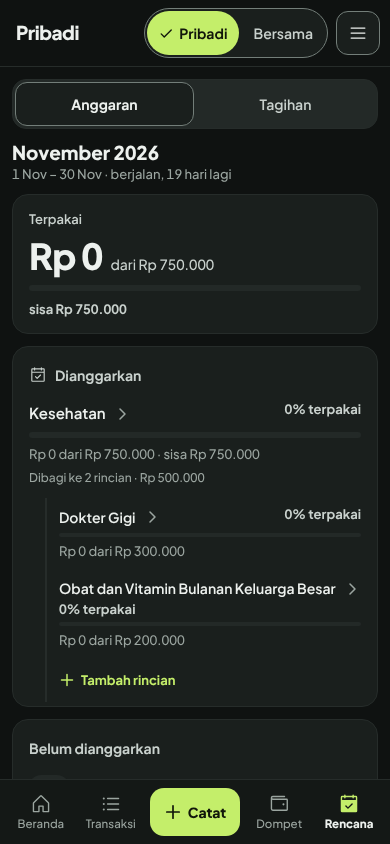
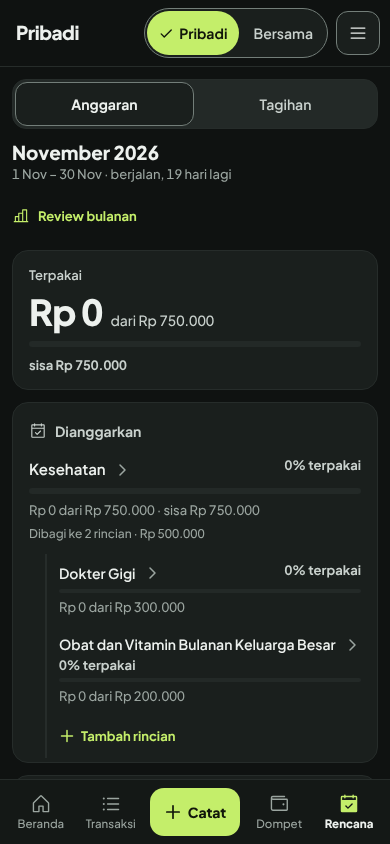
docs(s10): penutup S10 (handoff, BSD §16, IPD, keputusan agen, critique) dan perbaikan review akhir
- handoff s10.md, BSD §16 Catatan S10, IPD status, m0a-keputusan K1-K7, CLAUDE.md, critique + Delivery Gate
- ekspor: tolak respons redirect/bukan text/csv (sesi habis) dengan toast; Review: judul terlihat di HP
- screenshot Review dan Ekspor (docs/design/s10)

Claude-Session: https://claude.ai/code/session_01AG8bFj16Z3n8tZMQsLkXpi

diff --git a/apps/web/src/app/[ruang]/_real/ekspor-client.test.tsx b/apps/web/src/app/[ruang]/_real/ekspor-client.test.tsx
@@ -43,7 +43,9 @@ function setup() {
 
 describe('ExportButton (S10-EX1)', () => {
   it('berhasil: fetch, unduh dengan nama berkas, toast tanpa nominal', async () => {
-    fetchMock.mockResolvedValue(new Response('x', { status: 200 }));
+    fetchMock.mockResolvedValue(
+      new Response('x', { status: 200, headers: { 'content-type': 'text/csv; charset=utf-8' } }),
+    );
     const user = userEvent.setup();
     const btn = setup();
     expect(btn).toHaveAccessibleDescription('Semua transaksi');
@@ -68,6 +70,24 @@ describe('ExportButton (S10-EX1)', () => {
     await user.click(setup());
     await waitFor(() => {
       expect(toastSpy).toHaveBeenCalledWith({ message, tone: 'info' });
+    });
+    expect(clicked).toHaveLength(0);
+  });
+
+  it('sesi habis (redirect ke halaman masuk, HTML): tidak diunduh, toast sesi berakhir', async () => {
+    const html = new Response('<html></html>', {
+      status: 200,
+      headers: { 'content-type': 'text/html' },
+    });
+    Object.defineProperty(html, 'redirected', { value: true });
+    fetchMock.mockResolvedValue(html);
+    const user = userEvent.setup();
+    await user.click(setup());
+    await waitFor(() => {
+      expect(toastSpy).toHaveBeenCalledWith({
+        message: 'Sesi berakhir. Masuk lagi, lalu coba ekspor sekali lagi.',
+        tone: 'info',
+      });
     });
     expect(clicked).toHaveLength(0);
   });

diff --git a/apps/web/tests/e2e-ledger/screens-s10-rencana.spec.ts b/apps/web/tests/e2e-ledger/screens-s10-rencana.spec.ts
@@ -137,3 +137,19 @@ test('S10-SB2 sheet rincian (baru, ubah) dan sheet induk dengan rincian', async 
     await openUntil(() => row(p, 'Kesehatan').first(), sheet, amountOf(sheet));
   });
 });
+
+test('S10-RV1 Review bulanan (periode berjalan: Rencana vs kenyataan, kartu Siapkan)', async ({
+  browser,
+  ownerState,
+}) => {
+  await shoot(browser, ownerState, 'rv1-review', '/pribadi/rencana/review', async (p) => {
+    await expect(main(p).getByRole('region', { name: 'Rencana vs kenyataan' })).toBeVisible();
+    await expect(main(p).getByRole('region', { name: /^Siapkan / })).toBeVisible();
+  });
+});
+
+test('S10-EX1 Laporan dengan tombol Ekspor CSV', async ({ browser, ownerState }) => {
+  await shoot(browser, ownerState, 'ex1-laporan-ekspor', '/pribadi/laporan', async (p) => {
+    await expect(main(p).getByRole('link', { name: 'Ekspor CSV' })).toBeVisible();
+  });
+});

diff --git a/apps/web/src/app/[ruang]/_real/ekspor-client.tsx b/apps/web/src/app/[ruang]/_real/ekspor-client.tsx
@@ -46,6 +46,11 @@ export function ExportButton({
         });
         return;
       }
+      // Sesi habis: fetch mengikuti redirect ke halaman masuk (200 HTML); jangan diunduh sebagai .csv.
+      if (res.redirected || !(res.headers.get('content-type') ?? '').startsWith('text/csv')) {
+        toast({ message: EKSPOR_COPY.errSession, tone: 'info' });
+        return;
+      }
       const blob = await res.blob();
       const url = URL.createObjectURL(blob);
       const a = document.createElement('a');

diff --git a/apps/web/src/app/[ruang]/_real/review.tsx b/apps/web/src/app/[ruang]/_real/review.tsx
@@ -57,6 +57,10 @@ export function ReviewReal({
     <>
       <PageHeader title={REVIEW_COPY.title(title)} />
       <div className={WRAP}>
+        {/* HP/tablet: judul terlihat (pola Laporan); `h1` aslinya sr-only dari PageHeader, jadi ini dekoratif. */}
+        <p aria-hidden="true" className="text-title font-extrabold text-text laptop:hidden">
+          {REVIEW_COPY.link}
+        </p>
         <PeriodPicker
           ruang={ruang}
           period={period}

diff --git a/apps/web/src/app/[ruang]/_real/ekspor-copy.ts b/apps/web/src/app/[ruang]/_real/ekspor-copy.ts
@@ -10,5 +10,6 @@ export const EKSPOR_COPY = {
   done: (title: string, ruang: Ruang) => `Ekspor ${title} · ${RUANG_NAME[ruang]} selesai`,
   errTooLarge: 'Terlalu banyak transaksi untuk satu ekspor. Pilih periode yang lebih pendek.',
   errRate: 'Terlalu sering mengunduh. Coba lagi nanti.',
+  errSession: 'Sesi berakhir. Masuk lagi, lalu coba ekspor sekali lagi.',
   errGeneric: 'Belum berhasil. Sambungan ke server terputus. Coba lagi.',
 } as const;

diff --git a/CLAUDE.md b/CLAUDE.md
@@ -33,6 +33,7 @@ Aplikasi keuangan pribadi + bersama untuk Novanda dan Farida. Repo private, juga
 - **S8 (Bersama penuh: feed Aktivitas + Kontribusi di Beranda Bersama, halaman `/bersama/aktivitas`, onboarding Farida, biaya kaki keluar Bersama, registry ID tes) selesai dan di-merge ke `main` (PR #20, 2026-11-05; merge = deploy + migrasi 0114–0115 di produksi):** migrasi 0114–0115 (`api.shared_activity`, `api.member_contributions`; fungsi baca, tanpa tabel baru), salinan tanpa "rumah tangga" (R4). Angka: pgTAP 1071 (CI `db`), unit web 2022, `test:int` 172, e2e prototipe 296, e2e:bersama 22, e2e:ledger 38, e2e:auth 22; budget JS Beranda prototipe 161,7 / nyata 157,5 kB (batas 162, headroom 0,3). Catatan teknis: BSD §16 "Catatan S8"; ruling dan temuan: `docs/superpowers/handoff/s8-ledger.md`; desain + critique: `docs/design/s8-bingkai.md`; serah-terima + langkah pemilik: `docs/superpowers/handoff/s8.md`.
 - **S9 (anggaran, tagihan dasar, aman dipakai, Laporan) selesai** di branch `claude/bold-pasteur-535stf`, PR #24 (Task 1–13, 15, 17; Task 14/16 dipindah ke S10, pemilik 2026-11-07); review akhir SIAP MERGE, review keamanan bersih. **Merge = deploy + migrasi 0116–0121 di produksi** (periode gajian `payday_rule = 25` + `app.holidays`, `bills`/`bill_occurrences`/`budgets`, API tagihan + job `materialize_bills` 00:05 WIB, API anggaran + `copy_budgets`, aman dipakai lengkap + `spend_pace`, fungsi Laporan). Angka: pgTAP 1726, unit web 2272, worker unit 35 + int 10, `test:int` 192, e2e prototipe 308, `e2e:auth` 22, `e2e:ledger` 95 (+25 screenshot dilewati), `e2e:bersama` 33, `deploy-test.sh` 25, registry 33 aktif dari 92; budget JS prototipe Beranda 161,6 / nyata 157,5, Rencana 154,4 / 150,3, Laporan 155,3 / 151,2 kB (batas 162). CI `image`: pengecualian Trivy zlib1g sampai 2026-11-21. Catatan teknis: BSD §16 "Catatan S9"; desain + critique: `docs/design/s9-bingkai.md`; serah-terima + langkah pemilik: `docs/superpowers/handoff/s9.md`.
 - **Catat lewat WhatsApp (OpenWA) selesai, di-merge ke `main` (PR #27) dan live di VM DB sejak 2026-11-10 (merge = deploy + migrasi 0123 di produksi)** (fitur tidak menyala sendiri: tanpa `WA_*`/`OPENWA_*` di `web.env` route webhook 404 dan menu tampil mati; `openwa` + `wa-proxy` hanya naik bila `env/openwa.env` ada). Kirim `25rb makan siang` ke nomor bot (dompet dipilih per pesan dengan `@nama`, mis. `makan siang padang 23rb @cimb`: cocok nama dompet aktif ruang tujuan tanpa beda huruf, awalan unik, tidak ketemu/ambigu ditolak dengan daftar, `@kantor` eksplisit boleh hanya di Pribadi, bawaan tetap tidak pernah kantor; tanpa migrasi, PR #29, fase 2 perintah `dompet cimb` ditunda; spec 4.4, BSD §16 "Catatan WA"; tanggal bebas per pesan: `kemarin`/`kmrn`, `tgl 9`, `tgl 9/11`, `tgl 9 nov`, `tgl 9/11/2025`, ISO, masa depan dan lebih dari 366 hari ke belakang ditolak, tanpa migrasi, PR #30 + perbaikan hasil review independen, spec 4.1), dibaca aturan tetap (tanpa AI, satuan salah/slang/konfusabel gagal tertutup), masuk ledger lewat `createEntry`, dibalas satu baris, `batal` dalam 10 menit. Migrasi 0123 (`wa_links`, `wa_link_codes`, `wa_messages`, `api.wa_*`, event audit `wa_linked`/`wa_unlinked`; nomor diputus saat reset kata sandi dan masuk dengan kode pemulihan), route `/api/wa/webhook` (HMAC atas byte mentah, body streaming 64 KiB, di luar proxy Next, id pesan di-hash, batas laju, batas `hubung`), halaman `/[ruang]/whatsapp`. Topologi VM: `openwa` `0.27.1@sha256` (network `wa` + `wa_egress`) tidak berbagi network dengan web; sidecar `wa-proxy` (Caddy, allowlist L7 dua arah, header identitas dibuang, log tanpa header) di `wa` dan `wa_web`; `wa`/`wa_web` internal dengan gateway `isolated`, ketiga network tanpa IPv6; `firewall.sh` DROP egress `wa_egress` ke IMDS/VCN/privat dan DROP `INPUT` dari ketiga subnet; gw 404 untuk `/api/wa/*`; Trivy image OpenWA mingguan + PR (`openwa-image.yml`). Angka: pgTAP 1865, unit web 2638 (semua lulus sesudah merge `main`; kegagalan lama `rencana.test.tsx` diperbaiki PR #28), `test:int` 236, worker unit 35 + int 10, e2e prototipe 308, `e2e:auth` 22, `e2e:ledger` 101 (+25 dilewati), `e2e:bersama` 33, `deploy-test.sh` 33, `firewall-test.sh` 10, `wa-proxy-test.sh` 19; budget JS Beranda nyata 157,5, `/pribadi/whatsapp` 148,3 kB (batas 162). **Langkah pemilik dan keputusan terbuka** (SIM khusus, rahasia di VM, pairing, webhook, pemeriksaan pemisahan/gateway/IMDS/log di VM, terima risiko webhook palsu sah dari `openwa` disusupi, `WA_MAX_AMOUNT`/`WA_RATE_PER_MIN`, hasil Trivy pertama, nomor bot diblokir): `docs/ops/runbook-wa.md` dan `docs/superpowers/handoff/wa.md` (juga "Dibawa ke S10"). Pengecualian Trivy untuk CVE Chromium/apt `0.27.1` kedaluwarsa 2026-11-21; bump ke `0.29.1` sesudah 2026-11-14 18:52 WIB (`0.30.0` ada, layak sesudah 2026-11-17). Catatan teknis: BSD §16 "Catatan WA"; spec `docs/superpowers/specs/2026-11-09-catat-wa-openwa-design.md` (bagian 12).
+- **S10 (anggaran subkategori, Review bulanan, ekspor CSV, retensi WA) selesai** di branch `ccr-779b3416-vsu3pa`, belum PR (2026-11-12); **merge = deploy + migrasi 0124–0128 di produksi**: `0124` utang WA, `0125`–`0126` anggaran rincian (induk beranggaran, Σ rincian ≤ induk, tidak wajib; `budget_overview`, `copy_budgets` dengan persen, DQ14), `0127` `api.export_entries` (satu baris per kaki entri, Σ = Laporan), `0128` `purge_wa_messages` (14 hari, 01:27 WIB); webhook WA menolak pesan > 7 hari. Review bulanan `/[ruang]/rencana/review`, ekspor `GET /[ruang]/laporan/ekspor` (10/jam/user). Angka: pgTAP 1982, unit web 2831, `test:int` 273, worker unit 36 + int 10, e2e prototipe 308, `e2e:ledger` 98 (+1 gagal di sandbox lokal, CI `main` hijau: `tagihan › Urungkan bayar`), `e2e:bersama` 34. **Langkah pemilik dan keputusan terbuka** (metrik WA sebelum ~2026-11-24, log `no_timestamp`, pemisah CSV Excel id-ID, masa pakai 7 hari gerbang M2, tanggal OpenWA/Trivy): `docs/superpowers/handoff/s10.md`. Catatan teknis: BSD §16 "Catatan S10"; desain + critique: `docs/design/s10-bingkai.md`; keputusan agen: `docs/m0a-keputusan.md`.
 - **Belum live untuk pengguna:** pemilik perlu mengikuti `docs/ops/auth.md` (Resend SPF/DKIM, `web.env`, `owner_email`, bootstrap akun). Sesudah bootstrap, halaman ruang memakai ledger nyata.
 
 ## Tertunda
@@ -42,7 +43,7 @@ Aplikasi keuangan pribadi + bersama untuk Novanda dan Farida. Repo private, juga
 3. **Enam dokumen produk** di `docs/product/` (PRD, TRD, AFD, DBD, BSD, IPD) selesai dan sudah lewat satu putaran review tim (`docs/product/review/`); 18 keputusan pemilik disetujui (`review/keputusan-pemilik.md`). BSD **disetujui pemilik 2026-10-31** (§15 terjawab, periode gajian §8.2a) dan `bsd-check` lulus di PG 16 dan PG 17.11 (`docs/product/bsd-check/`); pindah ke pgTAP di CI M0b. Pertanyaan terbuka sisa: TRD §7.
 4. **Peran designer:** tambah kursi "design reviewer" di setiap task UI, dan design critique pada pratinjau Panel Malam.
 5. Budget JS tetap 162 kB rute (target 150 kB di M2 dibatalkan pemilik); Panel Malam memakai 160,9 kB.
-6. **Berikutnya:** merge PR #24 sesudah CI hijau, lalu S10 dari `docs/superpowers/handoff/s9.md` "Dibawa ke S10" (worker lanjutan, CSV, review bulanan, Task 14/16 S9: utang S7/S8 dan Web Vitals). Aturan M1: setiap page `[ruang]` memanggil `requireDataUser()` dan setiap kueri data lewat `withUser`.
+6. **Berikutnya:** PR S10 (sesudah CI hijau dan langkah pemilik di `handoff/s10.md`), gerbang M2 (masa pakai 7 hari dua akun), lalu S11 (IPD §6). Aturan M1: setiap page `[ruang]` memanggil `requireDataUser()` dan setiap kueri data lewat `withUser`.
 7. **Ditunda kecil:** daftar event audit reserved wajib diperbarui saat event sistem baru ditambah (tes katalog sudah menjaga); tes `99_konkurensi` bisa meninggalkan `app.settings env='test'` di DB CI bila gagal di tengah; dbmate tanpa `--strict` (0009/0010 boleh terpasang setelah 0100+).
 8. **Ditunda S6 (sisa kecil):** temuan critique S6: galat S6-C2 mode keyboard terpotong ellipsis, nama dompet panjang memakai empat baris di daftar Dompet, keterangan riwayat dompet terpotong saat nominal panjang. (Seed demo sudah keluar dari JS mode nyata di S7 Task 9; initializer `useCatat` diperbaiki Task 14.)
 9. **Ditunda S7:** keputusan pemilik 2026-11-04 sudah dijalankan: `dompetku-psql` dibuat (`infra/db-vm/bin/`, `docs/ops/akses-db-manual.md`; alert anomali "koneksi admin tanpa event" ditunda sampai log Postgres dikirim ke luar VM); SBOM/Trivy `worker.mjs` = opsi B (tetap dibundel, osv-scanner PR + mingguan `osv-mingguan.yml`, `docs/ops/ci-keamanan.md`). Sisa: DQ07 tidak memicu alert (R20); password `worker.env` salah baru tertangkap sesudah web terpasang dan ikut rollback. Utang: chip saran Catat bergeser +24 px saat dipilih; kontrol Talangan di sheet Ubah belum ada (`Tidak diganti` tidak bisa dibalik dari UI); nama dompet panjang terpotong di sheet reimburse dan daftar Dompet; arah ambil Bersama→Pribadi hanya dijaga `s7.int`; biaya kaki keluar Bersama tidak ditampilkan; worker: `unhandledRejection` hanya log; urutan cek `create_reimbursement` (M5, aman di bawah RLS FORCE); flaky C9 akar tidak terbukti (tes dikuatkan); Delivery Gate antislop dijalankan sebagai daftar periksa (ulangi bila skill tersedia).

diff --git a/docs/superpowers/handoff/s10.md b/docs/superpowers/handoff/s10.md
@@ -1,0 +1,59 @@
+# Serah-terima S10 (M2): anggaran subkategori, review bulanan, ekspor CSV, worker lanjutan
+
+Dokumen ini untuk sesi agen berikutnya dan untuk pemilik. Baca sampai habis sebelum mengerjakan apa pun.
+
+- Plan (K1–K7, ditulis agen; default dipakai karena pemilik menjawab "gas"): `docs/superpowers/plans/2026-11-11-dompetku-v2-s10-anggaran-sub-review-csv.md`. Catatan "Selesai ..." di bawah tiap task memuat ruling dan penyimpangan.
+- Desain: `docs/design/s10-bingkai.md` (bingkai, penyimpangan per task, critique + Delivery Gate); screenshot `docs/design/s10/` (`SCREENS=1`, `screens-s10-rencana.spec.ts`).
+- Catatan teknis: BSD §16 "Catatan S10" dan §13 butir 27.
+- Branch kerja: `ccr-779b3416-vsu3pa` (ditetapkan sesi; bukan `claude/s10-*`). **Belum ada PR.** **Merge = rilis + deploy otomatis + migrasi 0124–0128 di produksi** (maju-saja).
+
+## Status (2026-11-12)
+
+| Task | Isi | Catatan |
+| --- | --- | --- |
+| Pra | `0124` utang WA: trigger `wa_messages_clock`, `wa_finish_message` memeriksa pembuat, batas `hubung`, 10 kode/jam | `docs/superpowers/handoff/wa.md` |
+| 1 | bingkai desain | `docs/design/s10-bingkai.md` |
+| 2 | `0125` anggaran subkategori: skema, trigger pohon (`parent_budget_required`, `sub_exceeds_parent`, `sub_not_wajib`, cascade hapus induk) | kolom `category_is_root` dibuang |
+| 3 | `0126` `budget_overview` (+rincian, `sub_allocated`, `max_amount`), `copy_budgets(…, p_adjust_pct)`, DQ14 | induk dibulatkan ke atas, rincian ke bawah |
+| 4–5 | server/action + UI Rencana (daftar bersarang, `Tambah rincian`, sheet rincian) | design review terpisah |
+| 6 | Review bulanan `/[ruang]/rencana/review` (angka = Laporan), kartu `Siapkan {Bulan}` +persen | nyata saja |
+| 7–8 | `0127` `api.export_entries` + `csv.ts` + route `GET /[ruang]/laporan/ekspor` + tombol Laporan | per KAKI entri; 10/jam/user |
+| 9 | `0128` `jobs.purge_wa_messages` (14 hari, 01:27 WIB); worker keluar pada `unhandledRejection`; WA menolak pesan > 7 hari | lihat "Replay WA" |
+| 10 | dokumen, critique, review akhir | review akhir Opus: tanpa BLOCKER/TINGGI |
+
+Angka akhir (lokal, 2026-11-12): pgTAP 1982 (30 berkas; rollback penuh + up ulang lulus), unit web 2831, worker unit 36 + int 10, `test:int` web 273, e2e prototipe 308, `e2e:ledger` 98 lulus + 1 gagal lama (lihat "Utang"), `e2e:bersama` 34, budget JS rute nyata ≤ 162 kB (e2e budget lulus di Beranda, Transaksi, Rencana, Review, Laporan). Setiap task DB/uang punya review independen model Opus; review akhir lintas task juga.
+
+## Langkah pemilik (sesudah PR di-merge)
+
+1. Merge hanya bila CI hijau di head PR (job `db` dengan rollback/up, `auth`/int, e2e).
+2. Deploy memasang migrasi 0124–0128; tidak ada rahasia atau check Healthchecks baru. Sehari sesudahnya: `jobs.job_runs` untuk `purge_wa_messages` berstatus `ok` (`docs/ops/runbook-s7-worker.md`, "Pasang job S10") dan `dompetku-dq` hijau (DQ14 = 0).
+3. **Metrik WA:** spec WA memerlukan "80% dalam 14 hari" dari `wa_messages`. Job purge mulai menghapus baris sekitar **2026-11-24/25** (WA live 2026-11-10). Ambil angkanya **sebelum** itu, atau tunda merge sampai metrik diambil, atau mintalah agen menahan job (`purge_wa_messages` dinonaktifkan di `jobs.ts`).
+4. **Replay WA:** sesudah pairing, pastikan log web TIDAK memuat `[wa] no_timestamp` (runbook-wa langkah 8). Bila ada, `data.timestamp` tidak ada di payload OpenWA dan batas umur 7 hari mati (fail-open): pesan yang dikirim ulang sesudah hari ke-30 bisa tercatat ganda. Beri tahu agen.
+5. **Masa pakai 7 hari** dua akun (gerbang M2, IPD §5): catat, Review bulanan, Ekspor.
+6. **CSV:** pemisah koma. Excel locale Indonesia membuka satu kolom (Sheets dan Excel "Dari teks/CSV" normal). Bila Anda memakai Excel id-ID, minta agen mengganti ke `;` (perubahan kecil di `csv.ts`).
+7. Tanggal yang ikut: bump OpenWA `0.29.1` sesudah 2026-11-14 18:52 WIB (`0.30.0` sesudah 2026-11-17); pengecualian Trivy `zlib1g` dan OpenWA 0.27.1 kedaluwarsa 2026-11-21 (`docs/ops/ci-keamanan.md`).
+
+## Replay WA (ringkas)
+
+Baris dedupe `wa_messages` hanya hidup 14 hari. Perlindungan catatan ganda: (1) webhook mengabaikan pesan yang `data.timestamp`-nya > 7 hari (`MAX_MESSAGE_AGE_SECONDS`, `handle.ts`); (2) pesan 7–14 hari yang barisnya sudah dipurge ditahan idempotensi ledger 30 hari (`client_id` turunan id pesan). Tes: `handle.int` (pesan 8 hari, 6 hari, tanpa timestamp, replay sesudah purge).
+
+## Utang dan keputusan terbuka
+
+- **`e2e:ledger` `tagihan.spec › Urungkan bayar` gagal di sandbox lokal** (timeout 30 s; gagal juga pada kode tanpa perubahan S10), tetapi CI `main` (run #116, 2026-11-11) hijau, jadi kemungkinan lingkungan lokal yang lambat. Tebakan "tunggu dialog menutup" tidak memperbaikinya (dibatalkan). Bila CI di PR merah di tes ini, selidiki: pada kegagalan sheet Bayar masih terbuka dengan baris belum lunas.
+- Salin anggaran dengan persen negatif bisa menaikkan induk kecil (Rp500 −10% → Rp1.000, karena pembulatan ke atas ke Rp1.000); rincian < Rp1.000 dilewati (`skipped_conflict`).
+- Kuota ekspor 10/jam/user di memori satu proses (reset saat restart), terpakai juga oleh permintaan yang gagal.
+- Jendela deploy: web lama sesaat memanggil `budget_overview` dengan daftar alias lama (urutan baris bisa kacau beberapa detik, data produksi belum punya rincian); tanpa data rusak.
+- Critique S10 sisa: tangga `near/full/over` pada rincian dan nominal `Rp 12.345.678.900` di baris rincian belum dipotret; Review dan tombol Ekspor sudah dipotret 320/390/1280 terang dan gelap.
+- Dari plan/S9/WA yang tidak masuk S10: DQ07 tanpa alert (R20), T15 di registry (M5), kontrol Talangan di sheet Ubah, chip saran Catat bergeser, nama dompet panjang terpotong, kontrol tanggal tagihan, item Laporan di sidebar laptop, screenshot Kontribusi dua anggota, kategori `Kontribusi Farida`, utang WA lain (`createPools` dua pool, anti-tebak global, down migrasi 0123, indeks `wa_default_account`, dan seterusnya: `docs/superpowers/handoff/wa.md`).
+
+## Cara melanjutkan
+
+1. Lingkungan: `docs/superpowers/handoff/s9-konteks-subagent.md` dan "Cara melanjutkan" di `docs/superpowers/handoff/s7.md` (pnpm install, pgtap, dbmate, `db-reset-lokal.sh`; `test:int` meninggalkan pengguna di DB lokal: reset sebelum pgTAP/worker int).
+2. Gerbang: `pnpm lint && pnpm typecheck && pnpm test && pnpm format:check && pnpm test:registry`, `pnpm build`, `PW_CHROMIUM_PATH=/opt/pw-browsers/chromium pnpm e2e`, `test:int`, `e2e:auth`, `e2e:ledger`, `e2e:bersama`, `pg_prove` seluruh suite + rollback/up (lalu `env = 'prod'`), worker unit + int.
+3. Berikutnya: gerbang M2 (masa pakai 7 hari), lalu S11 (IPD §6: utang/piutang, cicilan) setelah pemilik menyetujui M2. Tulis plan dari `main` terbaru.
+
+## Pesan pembuka untuk sesi baru
+
+```
+Lanjutkan dari docs/superpowers/handoff/s10.md. Pertama cek status PR S10 (CI, merge) dan apakah pemilik sudah menjalankan langkah pasca-merge (job purge_wa_messages, DQ14, log no_timestamp, metrik WA). Bila M2 sudah disetujui pemilik, tulis plan S11 (IPD §6) dari main terbaru di branch claude/s11-<topik>, lalu eksekusi dengan subagent-driven-development.
+```

diff --git a/docs/design/s10-bingkai.md b/docs/design/s10-bingkai.md
@@ -133,28 +133,26 @@ Tiap task UI (5, 6, 8) menugaskan satu reviewer terpisah memeriksa: tangga statu
 
 ## Design critique dan Delivery Gate
 
-Diisi di Task 10 sesudah UI selesai (daftar periksa antislop dijalankan manual bila skill tidak tersedia, seperti S7 sampai S9).
+Antislop mode DURING; Delivery Gate dijalankan sebagai daftar periksa manual (skill tidak tersedia, seperti S7 sampai S9). Screenshot: `docs/design/s10/` (320/390/1280, terang dan gelap, `SCREENS=1`): `sb1-daftar-rincian`, `sb2-sheet-rincian-{baru,ubah}`, `sb2-sheet-induk`, `rv1-review`, `ex1-laporan-ekspor`. Design review terpisah (subagent) untuk Task 5; Task 6 dan 8 dikritik penulis dari screenshot.
 
-## Penyimpangan Task 5 dari bingkai (diputuskan agen, 2026-11-11; hasil design review terpisah)
+### Daftar periksa
 
-1. **Kotak Induk** menampilkan `Anggaran Rp …` (bukan nominal saja) dan label `Induk` terhubung ke kotaknya (`aria-labelledby`).
-2. **`Maksimal Rp …` baris sendiri** di bawah hint periode (bukan di ujung hint yang sama), supaya aturan paling menentukan tidak terpencil di 320 px; bila `maxAmount = 0` teksnya `Anggaran induk sudah habis dibagi ke rincian lain.` (kasus tepi yang tidak dibahas bingkai; `Tambah rincian` tetap tampil selama ada kandidat).
-3. **`Tambah rincian`** mendapat `hover-pointer:bg-hover` (sama dengan baris di atasnya). Jarak ≥ 8 antar baris induk, rincian, dan `Tambah rincian` memakai pengecualian yang sama dengan S9 (pemisah = padding baris, target ≥ 44: rincian 64, tombol 44).
-4. **Nama rincian sangat panjang**: caret ke tepi kanan saat status turun ke baris kedua (kosmetik, tidak ada yang terpotong).
-5. Belum dipotret: tangga `near/full/over` pada rincian dan `Rp 12.345.678.900` di baris rincian (komponen `Status` dan `Bar` dipakai bersama induk). Tercatat sebagai utang kecil untuk critique Task 10.
+| Butir                                                                                      | Hasil                                                           |
+| ------------------------------------------------------------------------------------------ | --------------------------------------------------------------- |
+| Token dan komponen Panel Malam dipakai ulang (tanpa warna/ikon baru, tanpa bayangan kartu) | lulus                                                           |
+| Status = ikon + teks, tangga sama untuk induk dan rincian                                  | lulus (rincian `near/full/over` belum dipotret)                 |
+| Target sentuh ≥ 44, jarak ≥ 8                                                              | lulus; pengecualian S9 untuk baris yang menempel (target 64/44) |
+| 320 px tanpa gulir horizontal                                                              | lulus (e2e `noHorizontalScroll` di Rencana, Review, Laporan)    |
+| axe tanpa pelanggaran serius, terang dan gelap                                             | lulus (`s9.spec` Review 320/1280, Rencana, Laporan)             |
+| Label in Name, ul berlabel, urutan fokus = urutan DOM                                      | lulus                                                           |
+| Salinan tanpa "rumah tangga", tanpa tanda seru, galat tanpa nominal                        | lulus (galat S10 dites tanpa digit)                             |
+| Budget JS ≤ 162 kB, pulau malas                                                            | lulus (e2e budget Rencana, Review, Laporan)                     |
 
-## Penyimpangan Task 6 dari bingkai (diputuskan agen, 2026-11-12)
+### Temuan
 
-1. **Rincian di "Rencana vs kenyataan" selalu terbuka** (daftar bersarang berlabel, seperti Rencana), bukan `details/summary`: layar baca-saja, tanpa ketukan ekstra.
-2. **Ringkasan = `SummaryCardView` Laporan** (judul `Pengeluaran {Bulan}`, buku besar Pemasukan/Pengeluaran/Selisih, pembanding periode lalu) ditambah `BudgetTotalCard` bila ada anggaran, bukan kartu baru: angkanya komponen yang sama dengan Laporan. Lencana `Sementara` digantikan catatan `Periode belum selesai; angka masih bisa bertambah.` bawaan kartu itu.
-3. **Tautan `Review bulanan`** ada di Rencana > Anggaran (di atas daftar, tampil bila ada anggaran atau periode baru); keadaan kosong Rencana tidak menampilkannya.
-4. **Kolom `Penyesuaian (%)` = `<input inputMode=numeric>` biasa** (persen, bukan uang); galat tanpa nominal.
-5. **Aksi `Salin`** hanya muncul untuk periode yang baru selesai atau berjalan dan punya anggaran (aturan di `loadReview`, bukan UI).
-
-## Penyimpangan Task 8 dari bingkai (diputuskan agen, 2026-11-12)
-
-1. **`Ekspor CSV` = `<a href download>` bergaya tombol sekunder** (bukan `<button>`): unduhan jalan tanpa JS dan sebelum hidrasi; dengan JS klik dicegat untuk keadaan `Menyiapkan…` dan toast galat.
-2. **Periode kosong:** CSV hanya berisi judul kolom; toast sukses yang sama (`Ekspor … selesai`), tanpa toast khusus "belum punya transaksi".
-3. **Batas laju 10 ekspor per jam per user** (di memori satu proses; toast `Terlalu sering mengunduh. Coba lagi nanti.`).
-4. **Pemisah koma**; Excel locale Indonesia membuka CSV koma sebagai satu kolom (Sheets dan Excel "Dari teks/CSV" normal). Utang kecil bila pemilik memakai Excel id-ID.
-5. Belum dipotret untuk design review (tombol + hint di header Laporan, 320/390 terang/gelap): masuk critique Task 10.
+1. **S10-C1 (diperbaiki)** Review di HP tidak punya judul terlihat (`h1` sr-only, pemilih periode hanya menyebut bulan): ditambah judul dekoratif `Review bulanan` seperti Laporan.
+2. **S10-C2 (diperbaiki)** Kotak Induk di sheet rincian hanya nominal tanpa kata `Anggaran`; `Maksimal` terpencil di akhir hint; kasus induk habis dibagi (Task 5 review).
+3. **S10-C3 (diperbaiki)** Ekspor saat sesi habis mengunduh halaman masuk sebagai `.csv`: kini ditolak dengan toast `Sesi berakhir…` (review akhir).
+4. **S10-C4 (catatan)** Nama rincian sangat panjang: caret ke tepi kanan saat status turun ke baris kedua (kosmetik).
+5. **S10-C5 (catatan)** Tangga `near/full/over` pada rincian, `Rp 12.345.678.900` di baris rincian, Review dengan banyak induk, dan keadaan `Menyiapkan…` Ekspor belum dipotret.
+6. **S10-C6 (catatan)** Review memakai dua kartu angka besar berurutan di HP (Ringkasan Laporan lalu Terpakai): padat; layak ditinjau bila pemilik merasa sesak.

diff --git a/docs/superpowers/plans/2026-11-11-dompetku-v2-s10-anggaran-sub-review-csv.md b/docs/superpowers/plans/2026-11-11-dompetku-v2-s10-anggaran-sub-review-csv.md
@@ -25,9 +25,9 @@
 | K2 | Menghapus anggaran induk yang punya sub | Ikut menghapus anggaran sub label itu (UI memberi teks konfirmasi). | Alternatif (tolak) memaksa hapus satu-satu. |
 | K3 | `wajib` pada sub | Ditolak (`DK422 sub_not_wajib`); wajib hanya induk (XOR dengan tagihan tetap di induk). | XOR sudah dinilai di induk; sub wajib membuka celah dobel. |
 | K4 | "Penyesuaian" salin anggaran | Persen bilangan bulat −90..+100 untuk semua baris, dibulatkan ke Rp1.000: anggaran induk ke atas, rincian ke bawah (minimal Rp1.000), supaya `Σ rincian ≤ induk` terjaga setelah pembulatan (hasil review Task 2); induk ditulis lebih dulu; sesudah salin, tiap baris diubah lewat editor yang ada. Sub disalin sesudah induknya dan ikut persen yang sama (jadi `Σ sub ≤ induk` tetap). | Sederhana, uang dihitung di SQL. |
-| K5 | Isi CSV | Satu baris per entri hidup pada periode Laporan (basis gajian/kalender), kolom: tanggal, jenis, kelas laporan, dompet, kategori induk, subkategori, nominal bertanda (integer rupiah), catatan, pencatat (nama tampil). Ruang Bersama tidak pernah memuat entri Pribadi (B13). Batas 50.000 baris (`DK422 export_too_large`). Pencatatan audit `export` (meta jumlah baris + rentang, tanpa isi). | Cocok dengan Laporan secara terbukti (Σ per kelas = angka Laporan). |
+| K5 | Isi CSV | Satu baris per KAKI entri hidup (bukan per entri; lihat Task 7) pada periode Laporan (basis gajian/kalender), kolom: tanggal, jenis, kelas laporan, dompet, kategori induk, subkategori, nominal bertanda (integer rupiah), catatan, pencatat (nama tampil). Ruang Bersama tidak pernah memuat entri Pribadi (B13). Batas 50.000 baris (`DK422 export_too_large`). Pencatatan audit `export` (meta `{count, via}`: kunci meta audit tertutup, tanpa rentang, tanpa isi). | Cocok dengan Laporan secara terbukti (Σ per kelas = angka Laporan). |
 | K6 | Tombol Ekspor | Di header Laporan (membawa periode + basis yang sedang dilihat); item "Export" di menu tetap "Segera". | Konteks periode terbawa. |
-| K7 | Retensi `wa_messages` | 14 hari (di bawah retensi idempotensi 30 hari; pesan lama yang diputar ulang tetap tertahan idempotensi ledger), job `purge_wa_messages` 01:27 WIB. Baris `pending` tidak dihapus. | Handoff wa.md "Data dan DB". |
+| K7 | Retensi `wa_messages` | 14 hari (di bawah retensi idempotensi 30 hari; pesan lama yang diputar ulang tetap tertahan idempotensi ledger), job `purge_wa_messages` 01:27 WIB. SEMUA status dihapus (juga `pending`; lihat Task 9), ditambah batas umur pesan 7 hari di webhook. | Handoff wa.md "Data dan DB". |
 
 ## Global Constraints
 
@@ -141,6 +141,8 @@
 - [ ] Tutup T15 di `REGISTRY.md` bila ada: `materialize_bills` dijalankan 2× = tidak ada kemunculan ganda (tes ada di `22_tagihan.sql`/int; petakan, jangan duplikasi).
 
 ### Task 10: Dokumen, review, penutup
+
+**Selesai 2026-11-12:** BSD §16 "Catatan S10", IPD S10, `docs/m0a-keputusan.md`, `handoff/s10.md`, critique + Delivery Gate di bingkai, review akhir Opus (tanpa BLOCKER/TINGGI; temuan sesi ini: ekspor saat sesi habis diperbaiki, judul Review di HP ditambah).
 
 - [ ] BSD §16 "Catatan S10" (migrasi 0125–0128, aturan sub K1–K3, `copy_budgets` baru, ekspor K5, retensi K7), BSD §13 butir 27 diganti aturan sub, `IPD.md` S10 (status, bukti kriteria keluar, `recurring_materialize` = `materialize_bills`), `docs/m0a-keputusan.md` (K1–K7), `CLAUDE.md` status, `docs/superpowers/handoff/s10.md` (langkah pemilik: masa pakai 7 hari kedua akun, runbook worker memasang job baru).
 - [ ] Review akhir: task review per task, review keamanan (uang/RLS/DB, ekspor CSV, injeksi formula, kebocoran lintas ruang), gerbang penuh (lihat Global Constraints), `deploy-test.sh`.

diff --git a/docs/product/BSD.md b/docs/product/BSD.md
@@ -2877,3 +2877,12 @@ Skrip cek 0109 dan pembacaan katalog di runbook S7 sengaja tidak memakai alat in
   - `batal` (kata persis): `api.wa_last_cancellable(p_current)` lalu `voidEntry` dengan `expectedVersion`; di luar aturan = balasan "tidak bisa dibatalkan dari WhatsApp" tanpa perubahan.
   - Log hanya kode mesin (SQLSTATE, errno, kode domain, alasan parser); teks, nominal, nomor, id pesan, dan kode hubung tidak pernah dilog. Kegagalan kirim balasan hanya dilog; entri tetap tersimpan.
 - Batasan yang diterima: `wa_messages` belum punya retensi (tumbuh terus; job purge menyusul); `wa_claim_message`/`wa_finish_message` berstatus INVOKER non-STABLE dan terdaftar sebagai pengecualian tertutup di `00_katalog`; down migrasi gagal bila `audit.events` sudah memuat `wa_linked`/`wa_unlinked`. Daftar lengkap butir minor: `docs/superpowers/handoff/wa.md` "Dibawa ke S10".
+
+**Catatan S10 (2026-11-12, branch `ccr-779b3416-vsu3pa`):** anggaran subkategori, Review bulanan, ekspor CSV, retensi pesan WhatsApp. Migrasi `0124`–`0128`, semua expand-only dalam arti tanda tangan fungsi `api.*` yang dipakai web lama (down hanya lokal/CI, ditolak bila `app.settings env = 'prod'`). Plan dan ruling per task: `docs/superpowers/plans/2026-11-11-dompetku-v2-s10-anggaran-sub-review-csv.md`; desain: `docs/design/s10-bingkai.md`; serah-terima: `docs/superpowers/handoff/s10.md`.
+
+- `0124` (utang WA): trigger `private.wa_messages_clock` memaksa `created_at = app.now()` untuk role web; `api.wa_finish_message` hanya menerima entri buatan pemanggil.
+- `0125` (§6, §7, §9, §13 butir 27 diganti): `app.budgets` kehilangan kolom `category_is_root`; FK `(space_id, category_id, category_type)`. Trigger DEFINER `private.tg_budget_tree` (kunci advisory `dompetku.budget:<ruang>`, jalan sesudah `budgets_obligation_xor`): rincian (subkategori) beranggaran hanya bila induknya beranggaran di label yang sama (`DK422 parent_budget_required`), Σ rincian ≤ induk dari dua arah (`sub_exceeds_parent`), rincian tidak wajib (`sub_not_wajib`), kunci baris tak berubah (`budget_key_immutable`); `private.tg_budget_cascade` (AFTER DELETE) menghapus rincian label itu bersama induknya. `set_budget` tanpa `category_not_root`; `budget_progress` (aman dipakai, Laporan) hanya induk, jadi tidak dobel.
+- `0126` (§8, §9): `budget_overview` + `parent_id`, `sub_allocated`, `max_amount` (uang dihitung di SQL) dan baris rincian; `copy_budgets(ruang, dari, ke, p_adjust_pct default 0)` (−90..100; ≠ 0 dibulatkan ke Rp1.000: induk ke atas, rincian ke bawah, rincian < Rp1.000 `skipped_conflict`; kolom hasil `skipped_parent`); DQ14 (rincian tanpa induk atau Σ > induk) di `dq_run`.
+- `0127` (§8, §10): `api.export_entries(ruang, dari, sampai)` INVOKER VOLATILE: satu baris per KAKI entri hidup dari `report_lines` (Σ per kelas = Laporan), `assert_member` lebih dulu, rentang ≤ 3660 hari, batas baris `app.settings export_max_rows` (50.000, `DK422 export_too_large`), pencatat dari `space_roster`, audit event `export` meta `{count, via}` (kunci meta audit tertutup). `statement_timeout` dinaikkan lokal transaksi sampai 30 s oleh `server/ledger/ekspor.ts` (butir §15.7).
+- `0128` (§10): `jobs.purge_wa_messages()` (DEFINER owner, EXECUTE hanya worker): `wa_messages` > 14 hari apa pun statusnya; job 01:27 WIB. Catatan keamanan replay: dedupe pesan hanya selama baris ada, jadi web mengabaikan pesan dengan `data.timestamp` > 7 hari dan sisanya ditahan idempotensi ledger 30 hari.
+- Web: Review bulanan membaca fungsi yang sama dengan Laporan dan Rencana (tanpa angka sendiri); CSV memakai escape rumus (`= + - @`, TAB, CR, dan sesudah `;`), nominal integer polos.

diff --git a/docs/m0a-keputusan.md b/docs/m0a-keputusan.md
@@ -59,3 +59,21 @@ Daftar lengkap keputusan yang diambil atas nama pemilik saat eksekusi plan M0a (
 - one fix wave covers findings 1,2,4,5,6,7,8 + ADR 0003 rewrite to Shareable Link option (owner confirms plan) — cheap, all in-scope — none
 - Owner 2026-10-31: keep violet Bersama on dark + uppercase "RUANG PRIBADI"/SpaceTag; keep handoff copy; drop M2 150 kB target (stay 162 kB); visual direction approved
 - A4 has no account form, so account creation moves to new `/buat-akun` (Terima undangan → Buat akun → Amankan): email comes from the invite token (read-only, not shown as a value in the prototype to avoid inventing an address), new password min 12 chars, then passkey + TOTP + recovery codes — matches spec §auth (email+password account, strong factor, recovery codes) and keeps A4 a pure decision screen — 12 may change when Better Auth policy is set in BSD/M0b
+
+## Keputusan agen atas nama pemilik selama S10 (2026-11-11 s.d. 2026-11-12)
+
+Pemilik menjawab "gas" pada plan S10 dan bingkai; default K1–K7 dipakai. Format: keputusan — alasan — risiko bila salah.
+
+- **K1** rincian di dalam anggaran induk (`Σ rincian ≤ induk`; hanya induk dihitung di aman dipakai dan Laporan) — BSD §15.1, tidak dobel — pemilik ingin rincian berdiri sendiri (ubah trigger dan `budget_progress`).
+- **K2** hapus anggaran induk menghapus rinciannya (konfirmasi menyebut jumlah) — alternatif menolak memaksa hapus satu-satu — hilang rincian tak sengaja (dialog fokus awal Kembali).
+- **K3** rincian tidak wajib — XOR dengan tagihan dinilai di induk — rincian wajib tidak tersedia.
+- **K4** penyesuaian salin = persen bulat −90..100, dibulatkan ke Rp1.000 (induk ke atas, rincian ke bawah) — menjaga `Σ rincian ≤ induk` — induk kecil bisa naik (Rp500 −10% → Rp1.000).
+- **K5** ekspor = satu baris per KAKI entri (bukan per entri) — transfer berbiaya berkelas ganda tidak bisa dicocokkan bila digabung — baris lebih banyak dari jumlah transaksi.
+- **K6** tombol Ekspor di Laporan (periode dan dasar terbawa); Menu → Export tetap "Segera" — tidak ada rute Pengaturan — pemilik mencari di Menu.
+- **K7** retensi `wa_messages` 14 hari, SEMUA status (juga `pending`); job 01:27 WIB (di jendela 01:00–01:30) — di bawah idempotensi 30 hari; ditambah batas umur pesan 7 hari di webhook — tanpa batas umur, kirim ulang sesudah hari ke-30 tercatat ganda — bila `data.timestamp` tak ada di payload OpenWA, batas itu mati (fail-open, log `no_timestamp`).
+- **Pemisah CSV koma** — standar, Sheets — Excel id-ID membuka satu kolom (ganti `;` bila diminta).
+- **Batas laju ekspor 10/jam/user di memori** — satu VM web — reset saat restart.
+- **`export_max_rows` di `app.settings`** (bukan konstanta) — tes tidak perlu menyisipkan 50.000 baris (3,5 menit) — admin bisa menaikkan batas.
+- **Audit `export` meta `{count, via}`** — kunci meta audit tertutup (0006) — rentang tidak tercatat.
+- **Review bulanan hanya dasar gajian; rincian selalu terbuka; ringkasan memakai kartu Laporan** — anggaran berlabel periode gajian; angka sama dengan Laporan — pemilik ingin kartu khusus.
+- **Worker `process.exit(1)` pada `unhandledRejection`** — gagal keras, container restart — loop restart bila rejection deterministik (runbook).

diff --git a/docs/product/IPD.md b/docs/product/IPD.md
@@ -179,6 +179,7 @@ Gerbang keluar: Farida bergabung; kedua akun 7 hari berturut-turut (definisi PRD
 - **Cakupan.** `recurring_materialize` 00:05 WIB di worker yang sudah ada (jadwal dasar `materialize_bills` sudah di S9); export CSV (escape formula); review bulanan dan salin anggaran 1 ketukan dengan penyesuaian (salin dasar `copy_budgets` sudah di S9); anggaran subkategori (K5). Utang teknis/desain S7/S8/S9 (Task 14 & Task 16 plan S9, critique minor S9-C3/C4/C5/C6/C10, migrasi keamanan rendah `0122_tagihan_batas_idem.sql`) telah diselesaikan lebih dulu di branch `claude/m2-pra-s10-utang-s9` (`docs/superpowers/plans/2026-11-08-dompetku-v2-pra-s10-utang-s9.md`).
 - **Dependensi.** S9.
 - **Kriteria keluar.** Job idempoten (jalan 2x = 1 entri); CSV cocok dengan laporan; gerbang M2 (masa pakai 7 hari setelah sprint).
+- **Status (2026-11-12).** Selesai di branch `ccr-779b3416-vsu3pa` (belum PR). `recurring_materialize` = `jobs.materialize_bills` (S9), jadi "worker lanjutan" = retensi `wa_messages` (`purge_wa_messages` 01:27 WIB) dan utang worker. Migrasi `0124`–`0128`. Bukti: job idempoten (`22_tagihan`, `99_konkurensi` T15, `purge_wa_messages` dijalankan ulang = 0), CSV = Laporan (`28_ekspor`, `rencana.int` [T17], e2e `laporan.spec`/`s9-bersama.spec`), Review = Laporan/Rencana (`rencana.int`), budget JS ≤ 162 kB. **Gerbang M2 (masa pakai 7 hari dua akun) menunggu pemilik.** Catatan teknis: BSD §16 "Catatan S10"; serah-terima dan langkah pemilik: `docs/superpowers/handoff/s10.md`.
 - **Risiko / mitigasi.** Job gagal diam: alert dan `job_runs`. Beban di VM sempit: limit memori container worker.
 
 ## 6. M3 sampai M8
